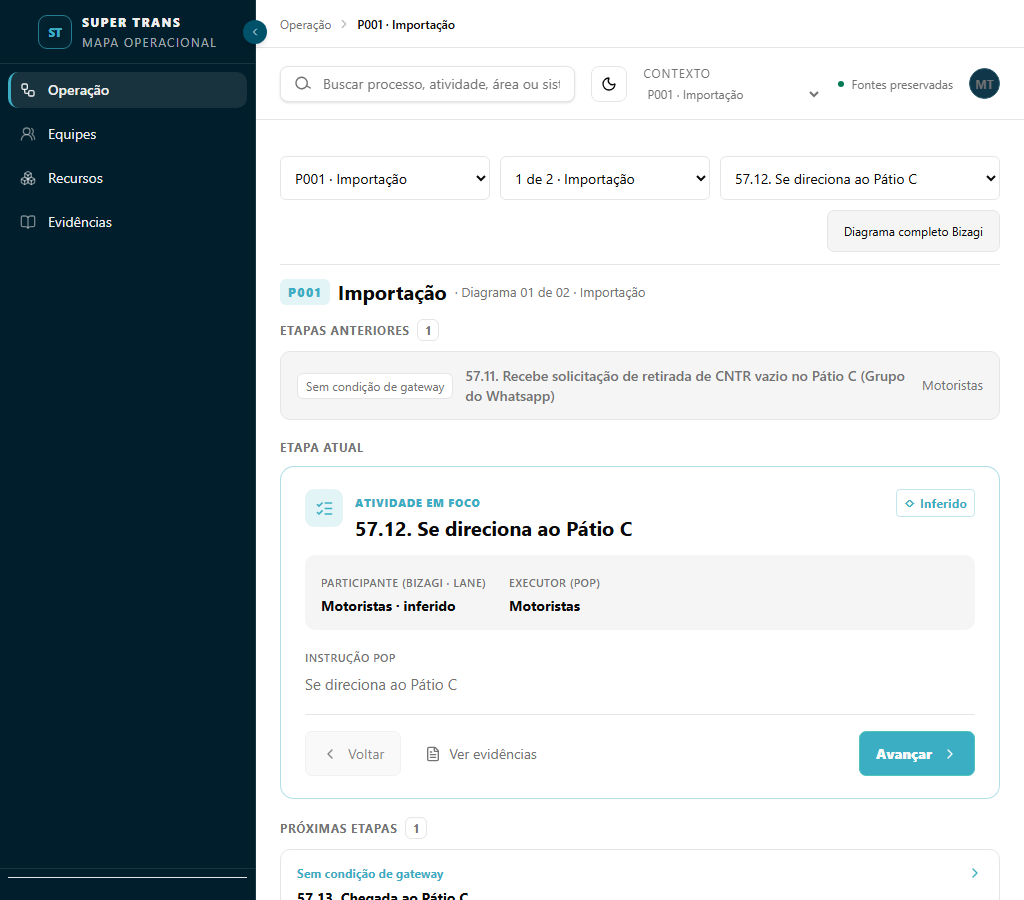
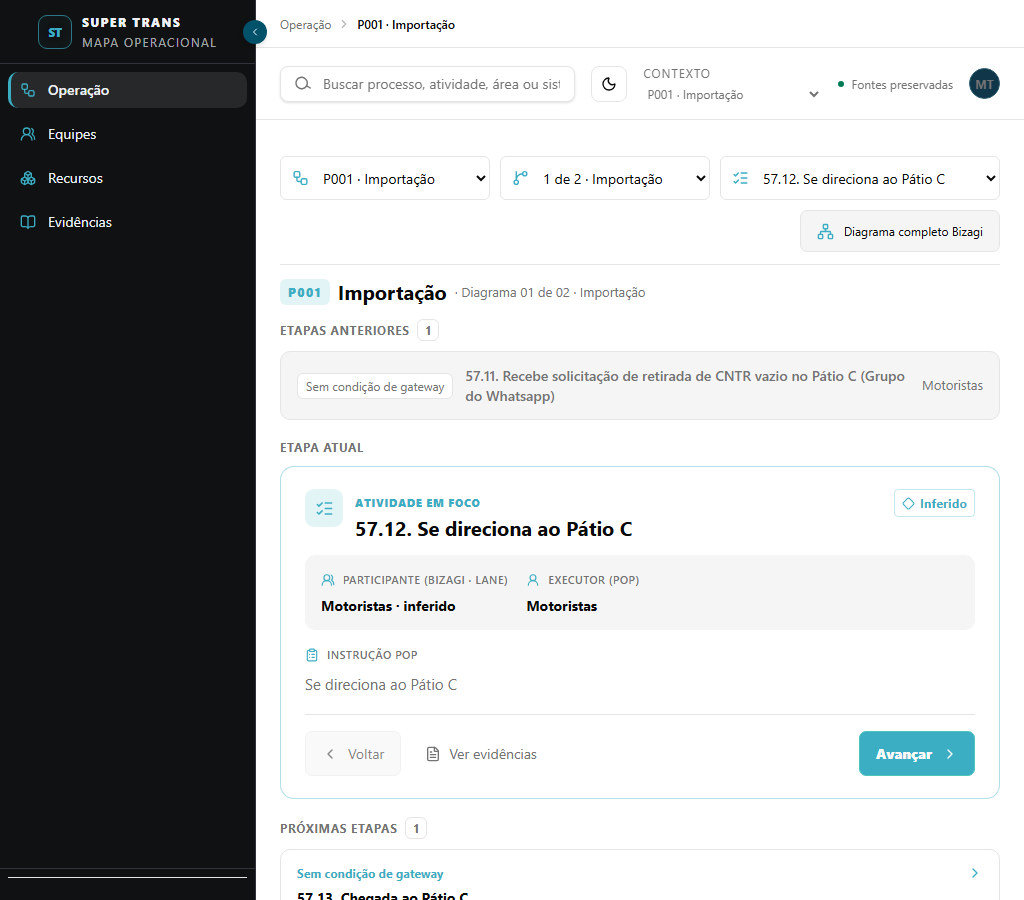
style: clarear tema dark, usar sidebar preta e ampliar iconografia

diff --git a/frontend/src/pages.tsx b/frontend/src/pages.tsx
@@ -1,5 +1,6 @@
 import { useEffect, useMemo, useRef, useState, type ReactNode } from 'react'
 import { Link, useNavigate, useNavigationType, useSearchParams } from 'react-router-dom'
+import { Workflow, GitBranch, ListChecks, Network, LayoutList, ChartNoAxesCombined, PlayCircle, Files } from 'lucide-react'
 
 import { operationDataClient } from './data/client'
 import { usePlaybackSession } from './data/playback-context'
@@ -212,7 +213,8 @@ export function ProcessDetailPage({ catalog, processId }: PageProps & { processI
   return (
     <div className="process-detail operation-page">
       <div className="operation-toolbar">
-        <label className="field-control operation-process-picker">
+        <label className="field-control operation-process-picker with-field-icon">
+          <Workflow size={17} aria-hidden="true" />
           <span className="sr-only">Processo</span>
           <select aria-label="Selecionar processo" value={process.id} onChange={(event) => navigate(`/operacao/${event.target.value}`)}>
             {catalog.processes.map((item) => (
@@ -222,7 +224,8 @@ export function ProcessDetailPage({ catalog, processId }: PageProps & { processI
             ))}
           </select>
         </label>
-        <label className="field-control process-diagram-picker">
+        <label className="field-control process-diagram-picker with-field-icon">
+          <GitBranch size={17} aria-hidden="true" />
           <span className="sr-only">Diagrama do processo</span>
           <select
             aria-label="Diagrama do processo"
@@ -242,7 +245,8 @@ export function ProcessDetailPage({ catalog, processId }: PageProps & { processI
             ))}
           </select>
         </label>
-        <label className="field-control operation-step-picker">
+        <label className="field-control operation-step-picker with-field-icon">
+          <ListChecks size={17} aria-hidden="true" />
           <span className="sr-only">Ir para atividade, evento ou decisão</span>
           <select
             aria-label="Ir para atividade, evento ou decisão"
@@ -264,10 +268,11 @@ export function ProcessDetailPage({ catalog, processId }: PageProps & { processI
           </select>
         </label>
         <button
-          className="secondary-button operation-view-toggle"
+          className="secondary-button operation-view-toggle with-icon"
           aria-pressed={detailView === 'diagram'}
           onClick={() => setDetailView(detailView === 'focus' ? 'diagram' : 'focus')}
         >
+          {detailView === 'focus' ? <Network size={17} aria-hidden="true" /> : <LayoutList size={17} aria-hidden="true" />}
           {detailView === 'focus' ? 'Diagrama completo Bizagi' : 'Voltar à etapa em foco'}
         </button>
       </div>
@@ -372,13 +377,14 @@ export function ProcessDetailPage({ catalog, processId }: PageProps & { processI
             />
           )}
           <details className="process-diagram-sources">
-            <summary>Fontes do diagrama</summary>
+            <summary><span className="with-icon"><Files size={16} aria-hidden="true" />Fontes do diagrama</span></summary>
             <EvidenceList sources={diagram.sources} showAll />
           </details>
         </div>
       </dialog>
       <details className="process-summary">
         <summary>
+          <ChartNoAxesCombined className="summary-icon" size={17} aria-hidden="true" />{' '}
           Resumo do processo · {summary?.nodeTypes.task ?? 0} atividades · {summary?.conflictCount ?? 0} conflitos para revisar
         </summary>
         <div className="process-stat-strip">
@@ -411,7 +417,7 @@ export function ProcessDetailPage({ catalog, processId }: PageProps & { processI
         </label>
       </details>
       <details className="process-guided-playback">
-        <summary>Reprodução guiada do fluxo</summary>
+        <summary><span className="with-icon"><PlayCircle size={17} aria-hidden="true" />Reprodução guiada do fluxo</span></summary>
         <PlaybackBar
           state={playback}
           currentName={currentNode?.name?.trim() ?? 'Aguardando início'}

diff --git a/frontend/src/components/FocusFlow.tsx b/frontend/src/components/FocusFlow.tsx
@@ -1,4 +1,4 @@
-import { ChevronLeft, ChevronRight, Circle, FileText, Flag, GitBranch, ListChecks, Repeat2, Split, TriangleAlert } from 'lucide-react'
+import { ChevronLeft, ChevronRight, Circle, FileText, Flag, GitBranch, ListChecks, Repeat2, Split, TriangleAlert, UsersRound, UserRound, Monitor, MessageCircle, ClipboardList, BadgeCheck } from 'lucide-react'
 import { useEffect, useRef } from 'react'
 import { buildFocusFlow } from '../data/focus-flow'
 import {
@@ -108,16 +108,16 @@ export function FocusFlow({
               <h2>{title(node)}</h2>
             </div>
             <ConfidenceBadge state={readinessForNode(process, node, conflictsForNode(catalog, node.id))} />
-            {node.reviewDecisionIds?.length ? <span className="tag">Revisado</span> : null}
+            {node.reviewDecisionIds?.length ? <span className="tag with-icon"><BadgeCheck size={14} aria-hidden="true" />Revisado</span> : null}
           </div>
           {(laneActor || popActor) && (
             <div className="focus-flow-participants">
               <div>
-                <span>Participante (Bizagi · lane)</span>
+                <span className="with-icon"><UsersRound size={14} aria-hidden="true" />Participante (Bizagi · lane)</span>
                 <strong>{laneActor ? `${laneActor} · inferido` : 'Não documentado'}</strong>
               </div>
               <div>
-                <span>{node.reviewedExecutorText ? 'Executor revisado' : 'Executor (POP)'}</span>
+                <span className="with-icon"><UserRound size={14} aria-hidden="true" />{node.reviewedExecutorText ? 'Executor revisado' : 'Executor (POP)'}</span>
                 <strong>{popActor ?? 'Não documentado'}</strong>
               </div>
               {divergent && <p>Lane original difere do executor. Associação geométrica da lane permanece inferida.</p>}
@@ -125,17 +125,17 @@ export function FocusFlow({
           )}
           {instruction && (
             <div className="focus-flow-instruction">
-              <span>Instrução POP</span>
+              <span className="with-icon"><ClipboardList size={14} aria-hidden="true" />Instrução POP</span>
               <p>{instruction}</p>
             </div>
           )}
           {(systems.length > 0 || channels.length > 0) && (
             <div className="focus-flow-chips">
               {systems.map((item) => (
-                <span key={item.id}>Sistema · {item.name}</span>
+                <span className="with-icon" key={item.id}><Monitor size={14} aria-hidden="true" />Sistema · {item.name}</span>
               ))}
               {channels.map((item) => (
-                <span key={item.id}>Canal · {item.name}</span>
+                <span className="with-icon" key={item.id}><MessageCircle size={14} aria-hidden="true" />Canal · {item.name}</span>
               ))}
             </div>
           )}

diff --git a/frontend/src/styles.css b/frontend/src/styles.css
@@ -49,12 +49,54 @@
 
 :root.dark {
   color-scheme: dark;
+  --background: #24272c;
+  --foreground: #f3f5f7;
+  --card: #30343b;
+  --card-foreground: #f3f5f7;
+  --popover: #343940;
+  --popover-foreground: #f3f5f7;
+  --secondary: #2b2f35;
+  --secondary-foreground: #e7ebef;
+  --muted: #3b4149;
+  --muted-foreground: #b9c2cd;
+  --border: #4b535e;
+  --input: #58616d;
   --focus-ring: var(--brand-accent);
   --scrollbar: var(--border);
   --node-current-fill: color-mix(in srgb, var(--brand-accent) 28%, transparent);
   --grid-line: color-mix(in srgb, var(--foreground) 8%, transparent);
   --shadow-main: 0 10px 30px rgba(0, 0, 0, .28);
 }
+
+/* Local visual preference: black navigation, brand blue in small accents. */
+:root[data-brand="supertrans"] {
+  --sidebar: #101112;
+  --sidebar-foreground: #edf1f5;
+  --sidebar-accent: #282b30;
+  --sidebar-primary: #282b30;
+  --sidebar-border: #30343a;
+}
+
+:root.dark .orion-app-shell { background: var(--background); }
+:root.dark .doc-card-primary { background: var(--card); }
+:root.dark .handoff-table-head,
+:root.dark .handoff-matrix thead th,
+:root.dark .handoff-matrix th:first-child { background: var(--secondary); }
+:root.dark .graph-frame { background-color: var(--secondary); }
+.summary-icon { display: inline-block; vertical-align: -3px; color: var(--accent); }
+:root.dark .primary-button { background: #353b43; color: var(--foreground); border-color: var(--accent); }
+:root.dark .primary-button:hover { background: #414954; }
+.orion-app-shell nav a svg { color: var(--brand-accent); }
+.sidebar-foot { color: var(--sidebar-foreground); }
+.sidebar-foot .mini-status { background: #1c1f23; color: #dce2e9; border-color: var(--sidebar-border); }
+.sidebar-foot .mini-status small, .sidebar-foot .version-label { color: #aeb8c4; }
+.with-icon { display: inline-flex; align-items: center; gap: 8px; }
+.with-icon > svg { flex: none; color: var(--accent); }
+.field-control.with-field-icon { position: relative; }
+.with-field-icon > svg { position: absolute; left: 12px; top: 50%; transform: translateY(-50%); color: var(--accent); pointer-events: none; }
+.operation-toolbar .field-control.with-field-icon > select { padding-left: 38px; }
+.evidence-tabs button { display: inline-flex; align-items: center; gap: 7px; }
+.evidence-tabs button svg { flex: none; color: var(--accent); }
 * { box-sizing: border-box; }
 html, body, #root { min-height: 100%; }
 body { margin: 0; background: var(--bg-primary); font-family: var(--font-family); }

diff --git a/frontend/src/RefinedResourcePages.tsx b/frontend/src/RefinedResourcePages.tsx
@@ -1,6 +1,6 @@
 import { useEffect, useMemo, useState, type ReactNode } from 'react'
 import { Link, useSearchParams } from 'react-router-dom'
-import { ArrowRight, FileText, Mail, MessageCircle, Monitor, Users } from 'lucide-react'
+import { ArrowRight, FileText, Mail, MessageCircle, Monitor, Users, ClipboardCheck, TriangleAlert, CircleHelp, GitBranch, ShieldCheck } from 'lucide-react'
 
 import { ConfidenceBadge } from './components/ConfidenceBadge'
 import { HumanReviewBrowser } from './components/HumanReview'
@@ -800,14 +800,14 @@ export function DocumentationPage({ catalog }: PageProps) {
       <div className="evidence-tabs" role="tablist">
         {(
           [
-            ['sources', 'Fontes'],
-            ['review', `Respostas recebidas · ${catalog.humanReview?.summary.answered ?? 0}`],
-            ['conflicts', `Conflitos · ${conflicts.length}`],
-            ['ambiguities', `Ambiguidades · ${ambiguities.length}`],
-            ['subflows', `Subprocessos sem destino · ${unresolved.length}`],
-            ['readiness', 'Confiabilidade dos dados'],
+            ['sources', 'Fontes', FileText],
+            ['review', `Respostas recebidas · ${catalog.humanReview?.summary.answered ?? 0}`, ClipboardCheck],
+            ['conflicts', `Conflitos · ${conflicts.length}`, TriangleAlert],
+            ['ambiguities', `Ambiguidades · ${ambiguities.length}`, CircleHelp],
+            ['subflows', `Subprocessos sem destino · ${unresolved.length}`, GitBranch],
+            ['readiness', 'Confiabilidade dos dados', ShieldCheck],
           ] as const
-        ).map(([id, label]) => (
+        ).map(([id, label, Icon]) => (
           <button
             key={id}
             role="tab"
@@ -815,7 +815,7 @@ export function DocumentationPage({ catalog }: PageProps) {
             className={section === id ? 'is-active' : ''}
             onClick={() => setSection(id)}
           >
-            {label}
+            <Icon size={16} aria-hidden="true" />{label}
           </button>
         ))}
       </div>

diff --git a/frontend/src/components/ActivityPanel.tsx b/frontend/src/components/ActivityPanel.tsx
@@ -1,4 +1,5 @@
 import { useMemo, type ReactNode } from 'react'
+import { UsersRound, ClipboardList, ArrowLeftRight, Package, FileText, Route, ClipboardCheck, X } from 'lucide-react'
 
 import {
   actorName,
@@ -33,9 +34,12 @@ function textValue(value: unknown): string | undefined {
 }
 
 function PanelSection({ title, children }: { title: string; children: ReactNode }) {
+  const Icon = ({ Responsabilidade: UsersRound, 'Informação operacional': ClipboardList, Handoffs: ArrowLeftRight,
+    Artefatos: Package, Evidências: FileText, Navegação: Route, 'Caminhos documentados': Route,
+    'Revisão operacional recebida': ClipboardCheck } as Record<string, typeof FileText>)[title] ?? FileText
   return (
     <section className="panel-section">
-      <h4>{title}</h4>
+      <h4 className="with-icon"><Icon size={16} aria-hidden="true" />{title}</h4>
       {children}
     </section>
   )
@@ -94,7 +98,7 @@ export function ActivityPanel({ process, diagram, node, catalog, onSelectNode, o
           <h2>{nodeDisplayName(node)}</h2>
         </div>
         <button className="icon-button" aria-label="Fechar painel" onClick={onClose}>
-          ×
+          <X size={18} aria-hidden="true" />
         </button>
       </div>
       <ConfidenceBadge state={readiness} />

diff --git a/frontend/src/components/ConfidenceBadge.tsx b/frontend/src/components/ConfidenceBadge.tsx
@@ -1,18 +1,20 @@
 import { readinessCopy, type DataConfidenceState } from '../data/readiness'
+import { CircleCheck, Diamond, TriangleAlert, CircleHelp, CircleMinus } from 'lucide-react'
 
-const symbols: Record<DataConfidenceState, string> = {
-  READY: '●',
-  READY_WITH_INFERENCE_BADGE: '◇',
-  READY_WITH_SOURCE_CONFLICT: '!',
-  NEEDS_HUMAN_REVIEW: '?',
-  NOT_AVAILABLE: '—',
+const symbols = {
+  READY: CircleCheck,
+  READY_WITH_INFERENCE_BADGE: Diamond,
+  READY_WITH_SOURCE_CONFLICT: TriangleAlert,
+  NEEDS_HUMAN_REVIEW: CircleHelp,
+  NOT_AVAILABLE: CircleMinus,
 }
 
 export function ConfidenceBadge({ state, compact = false }: { state: DataConfidenceState; compact?: boolean }) {
   const copy = readinessCopy[state]
+  const Icon = symbols[state]
   return (
     <span className={`confidence confidence-${state.toLowerCase()}`} title={copy.detail} aria-label={`${copy.label}: ${copy.detail}`}>
-      <span aria-hidden="true">{symbols[state]}</span>
+      <Icon aria-hidden="true" size={13} />
       {!compact && <span>{copy.label}</span>}
     </span>
   )

diff --git a/DECISIONS.md b/DECISIONS.md
@@ -571,3 +571,11 @@ Camada `scripts/apply_review_projection.py` aplica decisões em cópias entregue
 Não altera ligações Bizagi, lanes geométricas, participantes inferidos das 73 passagens nem resolve chamadas ao próprio processo. Restam 1 conflito ativo (P001, observação G20/H20), 18 pendências de conteúdo já enumeradas, três pedidos de inclusão sem escopo/fonte de implementação e data da revisão. 230 decisões aplicadas + 19 explicações reconhecidas; 21 respostas restantes não são promovidas automaticamente.
 
 Validação: teste de regressão reproduziu contagem errada 229 antes da correção; 7 testes específicos Python (importação/projeção), 29 Vitest, build e QA human-review/operation/process-focus aprovados. QA verificou a etapa 1 de Importação sem Conflito, selo Revisado, executor Cliente, histórico resolvido e conflito ainda aberto; 10 processos/73 passagens/14 diagramas, três larguras/temas. Fontes e modelo normalizado preservados. Aviso conhecido de chunk >500 kB permanece.
+
+## DEC-048 — dark grafite, sidebar preta e ícones funcionais (2026-10-22)
+
+Usuário rejeitou dark escuro demais e sidebar azul; pediu preto na navegação, azul Supertrans nos ícones/detalhes e mais ícones. Escolha: override local dos tokens Orion, sem editar dependências: fundo dark #24272c, cartões #30343b, superfícies secundárias #2b2f35, texto #f3f5f7/#b9c2cd e bordas #4b535e. Sidebar #101112 nos dois temas. Azul da marca preservado em ícones, foco/seleção e detalhes; botão primário dark usa grafite e contorno azul. Removido gradiente azul do cartão documental dark; matrizes e diagrama usam superfícies neutras.
+
+Lucide SVG em seletores, alternância de diagrama, resumo/reprodução, status de confiança/revisão, participantes, instrução, sistemas/canais, abas de evidências e títulos do painel. Ícones decorativos aria-hidden, textos e rótulos acessíveis preservados. Sidebar usa ícones de navegação existentes com cor da marca. Selects recebem espaço de 38px para impedir sobreposição. Sem novas dependências nem mudança de regras/dados/fontes.
+
+Validação: 29 Vitest e build aprovados; QA dark-theme nos temas claro/escuro e larguras 1366/1024/390, sidebar preta por estilo computado, tokens, ícones SVG, espaçamento, drawer, persistência do tema e ausência de overflow/erros. QA operation/process-focus/channels aprovados: dez processos, 73 passagens, 14 diagramas e recursos. Capturas em docs/screenshots/dark-theme conferidas visualmente. Aviso conhecido de chunk >500 kB permanece. Fontes, normalizado e frontend/public/data intactos.

diff --git a/.codex/HANDOFF.md b/.codex/HANDOFF.md
@@ -414,3 +414,11 @@ Usuário questionou Conflito persistente em etapa já revisada. Causa: integraç
 7 testes Python específicos, 29 Vitest, build e QA human-review/operation/process-focus aprovados. Regressão mostrou 229 antes e 1 depois; testes comparam fluxos/lanes/IDs e hash normalizado preservados. QA cobre 10 processos/73 passagens/14 diagramas, conflito aberto, etapa reportada e 3 larguras/temas. Capturas revisadas visualmente; preview encerrado ao final. Aviso conhecido de chunk >500 kB permanece.
 
 Próximo EXATO: esclarecer P001/O que a etapa faz!G20-H20 (único conflito ativo) e demais 18 pendências; delimitar 3 inclusões que exigem fonte/escopo; receber data da revisão. Os 73 participantes continuam inferidos. Não voltar ao estado de só armazenar propostas nem resolver autorreferências automaticamente. CLI python -m scripts.build_frontend_data aplica ledger; API exige review_path explícito. Ledger recebido permanece imutável; applicationStatus é derivado na projeção.
+
+## CHECKPOINT VIGENTE — dark e ícones (2026-10-22)
+
+Usuário pediu dark menos escuro, sidebar preta e azul Supertrans em ícones/detalhes, mais ícones. DEC-048: override local em styles.css, fundo dark #24272c/cartão #30343b/sidebar #101112 nos dois temas; neutros em documentação/matriz/diagrama/botões dark. Nenhuma dependência alterada. Ícones Lucide ampliados em pages/FocusFlow/ActivityPanel/ConfidenceBadge/RefinedResourcePages; rótulos preservados e decorativos aria-hidden. Selects usam padding-left 38px para não sobrepor ícone/texto.
+
+29 Vitest/build e QA dark-theme/operation/process-focus/channels aprovados. Runner scripts/visual-qa/dark-theme.mjs verifica tokens/estilo computado, ícones, padding, dois temas e 1366/1024/390, drawer, persistência, sem overflow/erros. Capturas em docs/screenshots/dark-theme revisadas visualmente. Regressão: 10 processos/73 passagens/14 diagramas e canais. Fontes, dados normalizados e frontend/public/data sem diferenças. Aviso conhecido de chunk >500 kB continua. Preview temporário encerrado.
+
+Próximo exato: revisão visual do usuário; não mexer no modelo por acabamento. Continuam pendentes data da revisão, 18 dúvidas de conteúdo/único conflito ativo e escopo de três inclusões. Não reextrair fontes nem reabrir questões já resolvidas pela DEC-047.

diff --git a/PROJECT_STATUS.md b/PROJECT_STATUS.md
@@ -322,3 +322,7 @@ Dariane Pantoja e Lunna Nogueira identificadas pelo usuário como revisoras. Nom
 ## Marco 2026-10-22 — decisões aplicadas ao frontend
 
 Corrigida lacuna de integração: 228 conflitos resolvidos e 1 ativo na projeção, duas correspondências aplicadas e 19 explicações reconhecidas. Etapa 1/P001 mostra Revisado e executor Cliente; selos/contagens/busca/instruções refletem decisões, mantendo histórico Bizagi/POP. DEC-047 substitui limitação de só guardar propostas. Fontes, normalizado, topologia e 73 passagens inferidas preservados. 7 Python específicos, 29 Vitest, build e QA human-review/operation/process-focus aprovados. Próximo: esclarecer conflito G20/H20 e demais 18 pendências, delimitar três inclusões e receber data da revisão.
+
+## Marco 2026-10-22 — dark mais claro e iconografia
+
+Dark ajustado para grafite, cartões mais claros e bordas legíveis; sidebar preta nos dois temas. Azul Supertrans em ícones/detalhes e seleção. Lucide ampliado em seletores, status, participantes, ações e evidências. DEC-048 detalha tokens e limites. 29 testes, build, QA dark-theme/operation/process-focus/channels aprovados; fontes/dados preservados. Próximo: revisão visual pelo usuário; manter pendências operacionais anteriores (1 conflito ativo, 18 dúvidas, três inclusões e data da revisão).

diff --git a/TASKS.md b/TASKS.md
@@ -294,3 +294,11 @@ O plano abaixo foi executado parcialmente nesta fase; a coluna Jira ficou penden
 - [x] Validar etapa relatada, conflito aberto, fontes, build/testes e navegação completa.
 - [ ] Esclarecer conflito P001/G20-H20 e demais pendências; delimitar três inclusões antes de alterar topologia/documentos.
 - [ ] Receber data da revisão e validar separadamente 73 atribuições inferidas.
+
+## Aparência dark e ícones — 2026-10-22
+
+- [x] Clarear superfícies dark e melhorar distinção de cartões/bordas.
+- [x] Sidebar preta; azul Supertrans em ícones, seleção e detalhes.
+- [x] Adicionar ícones Lucide com rótulos acessíveis preservados.
+- [x] Validar testes/build, dois temas/três larguras e regressão operacional.
+- [ ] Revisão visual do usuário; pendências operacionais anteriores continuam registradas.
